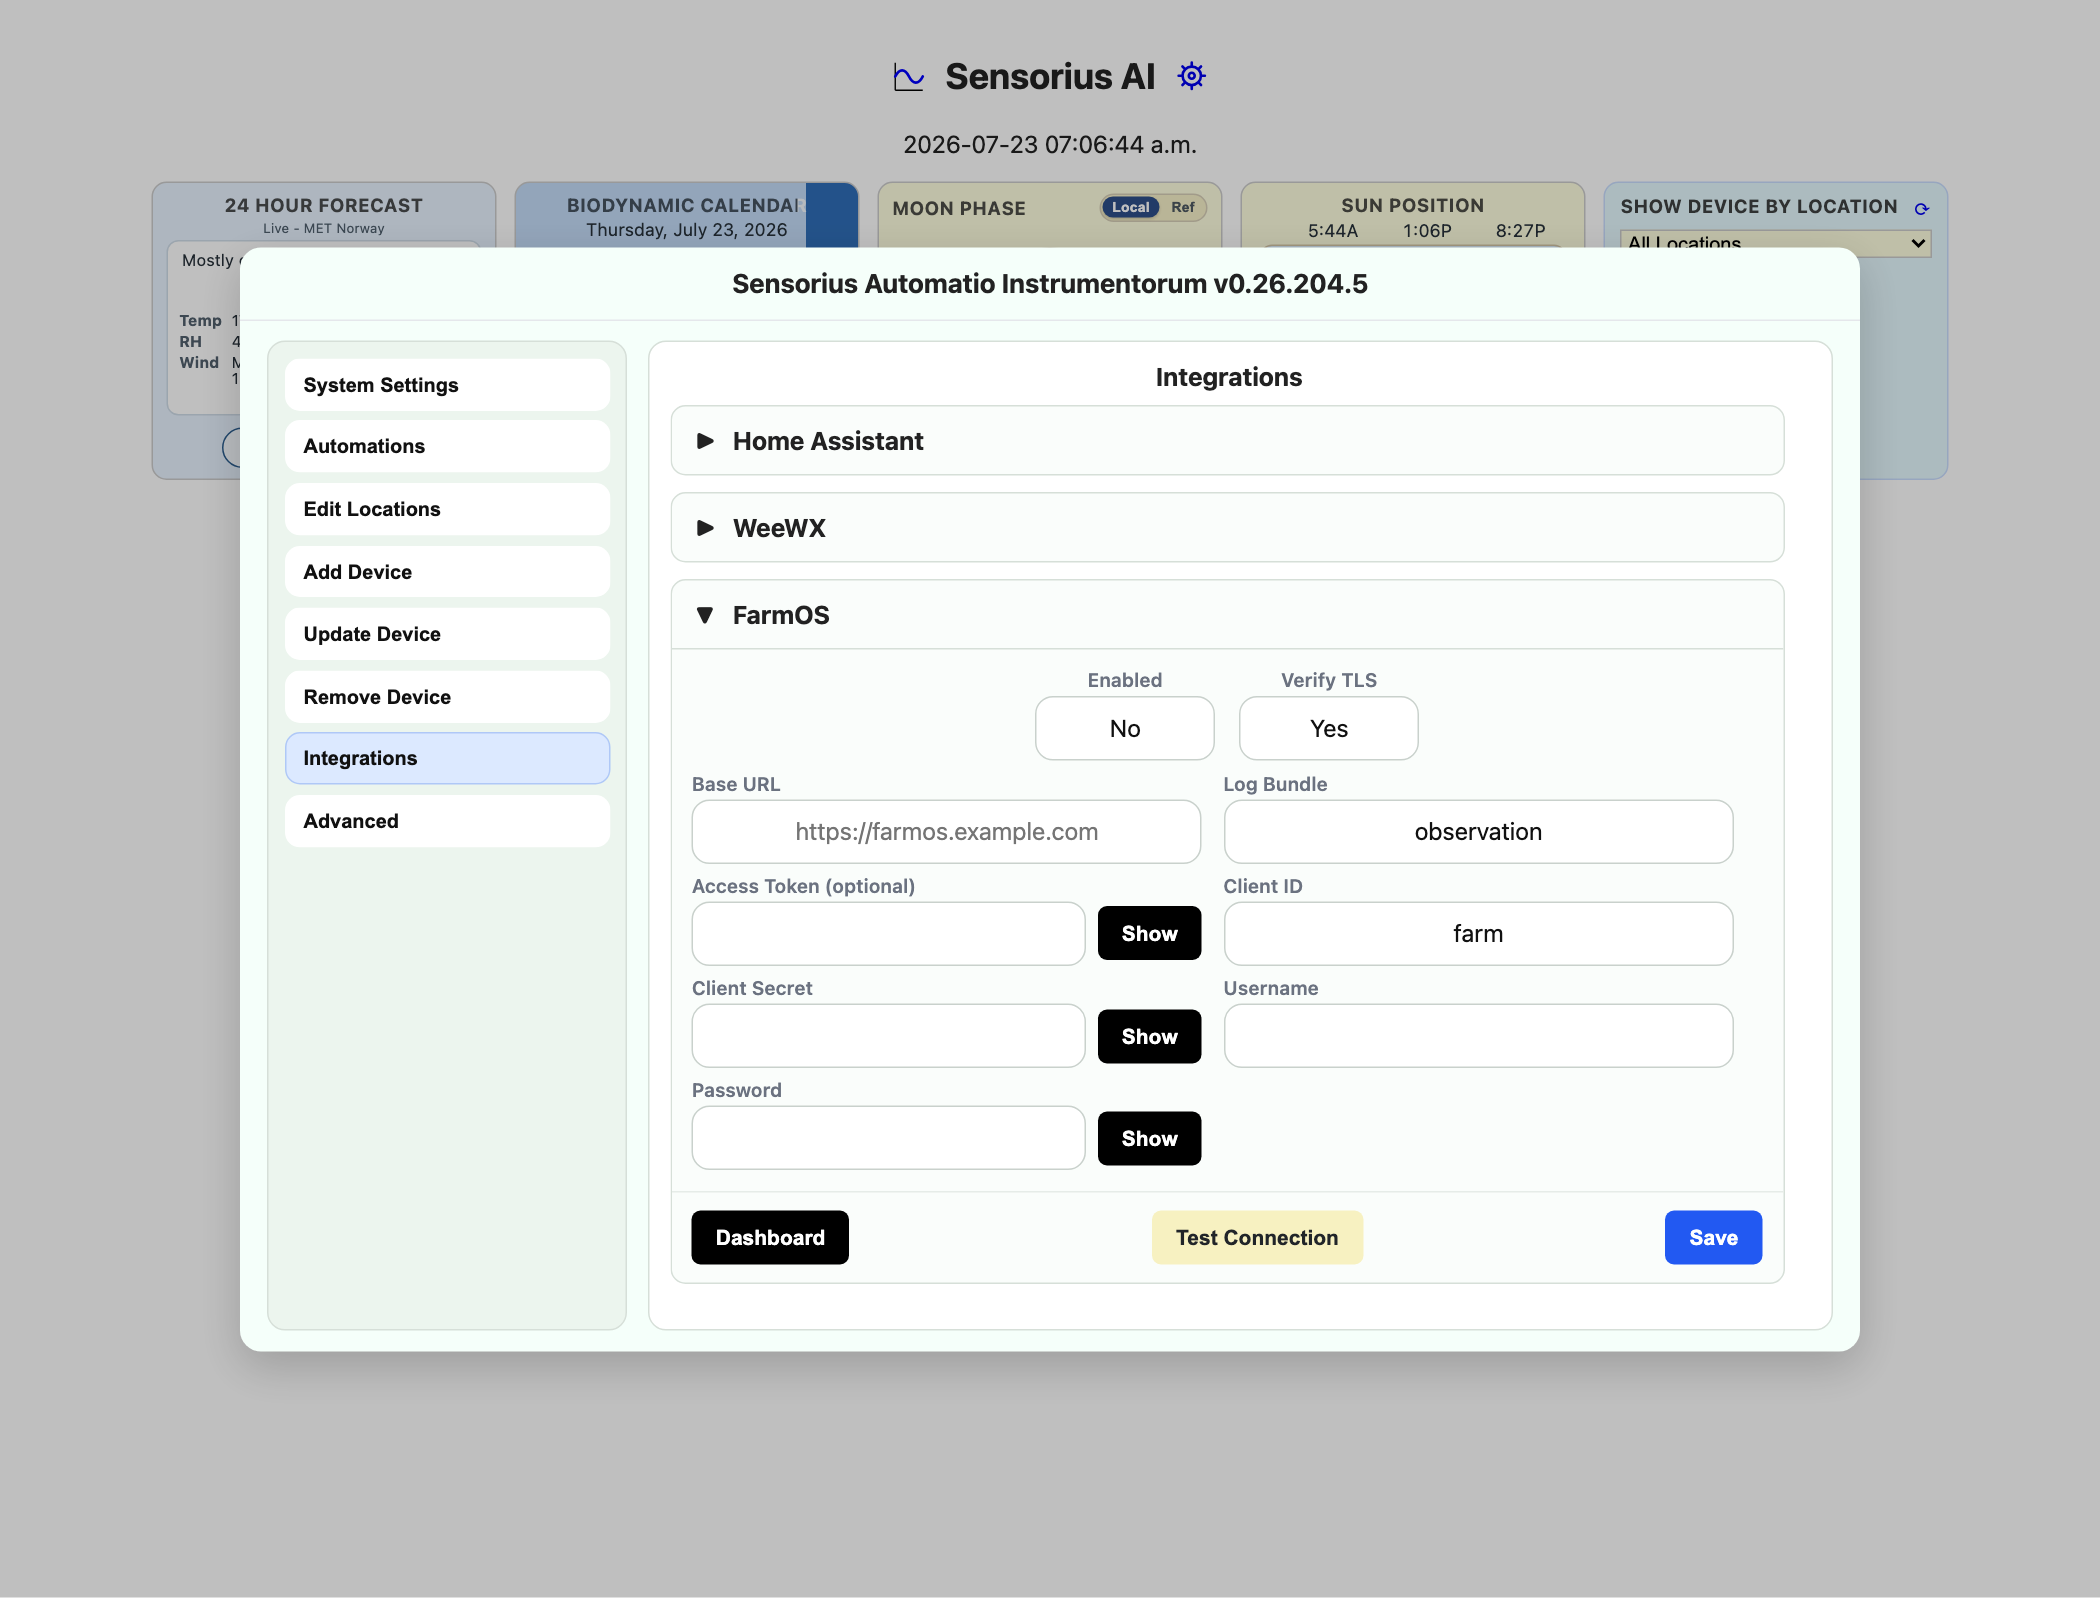
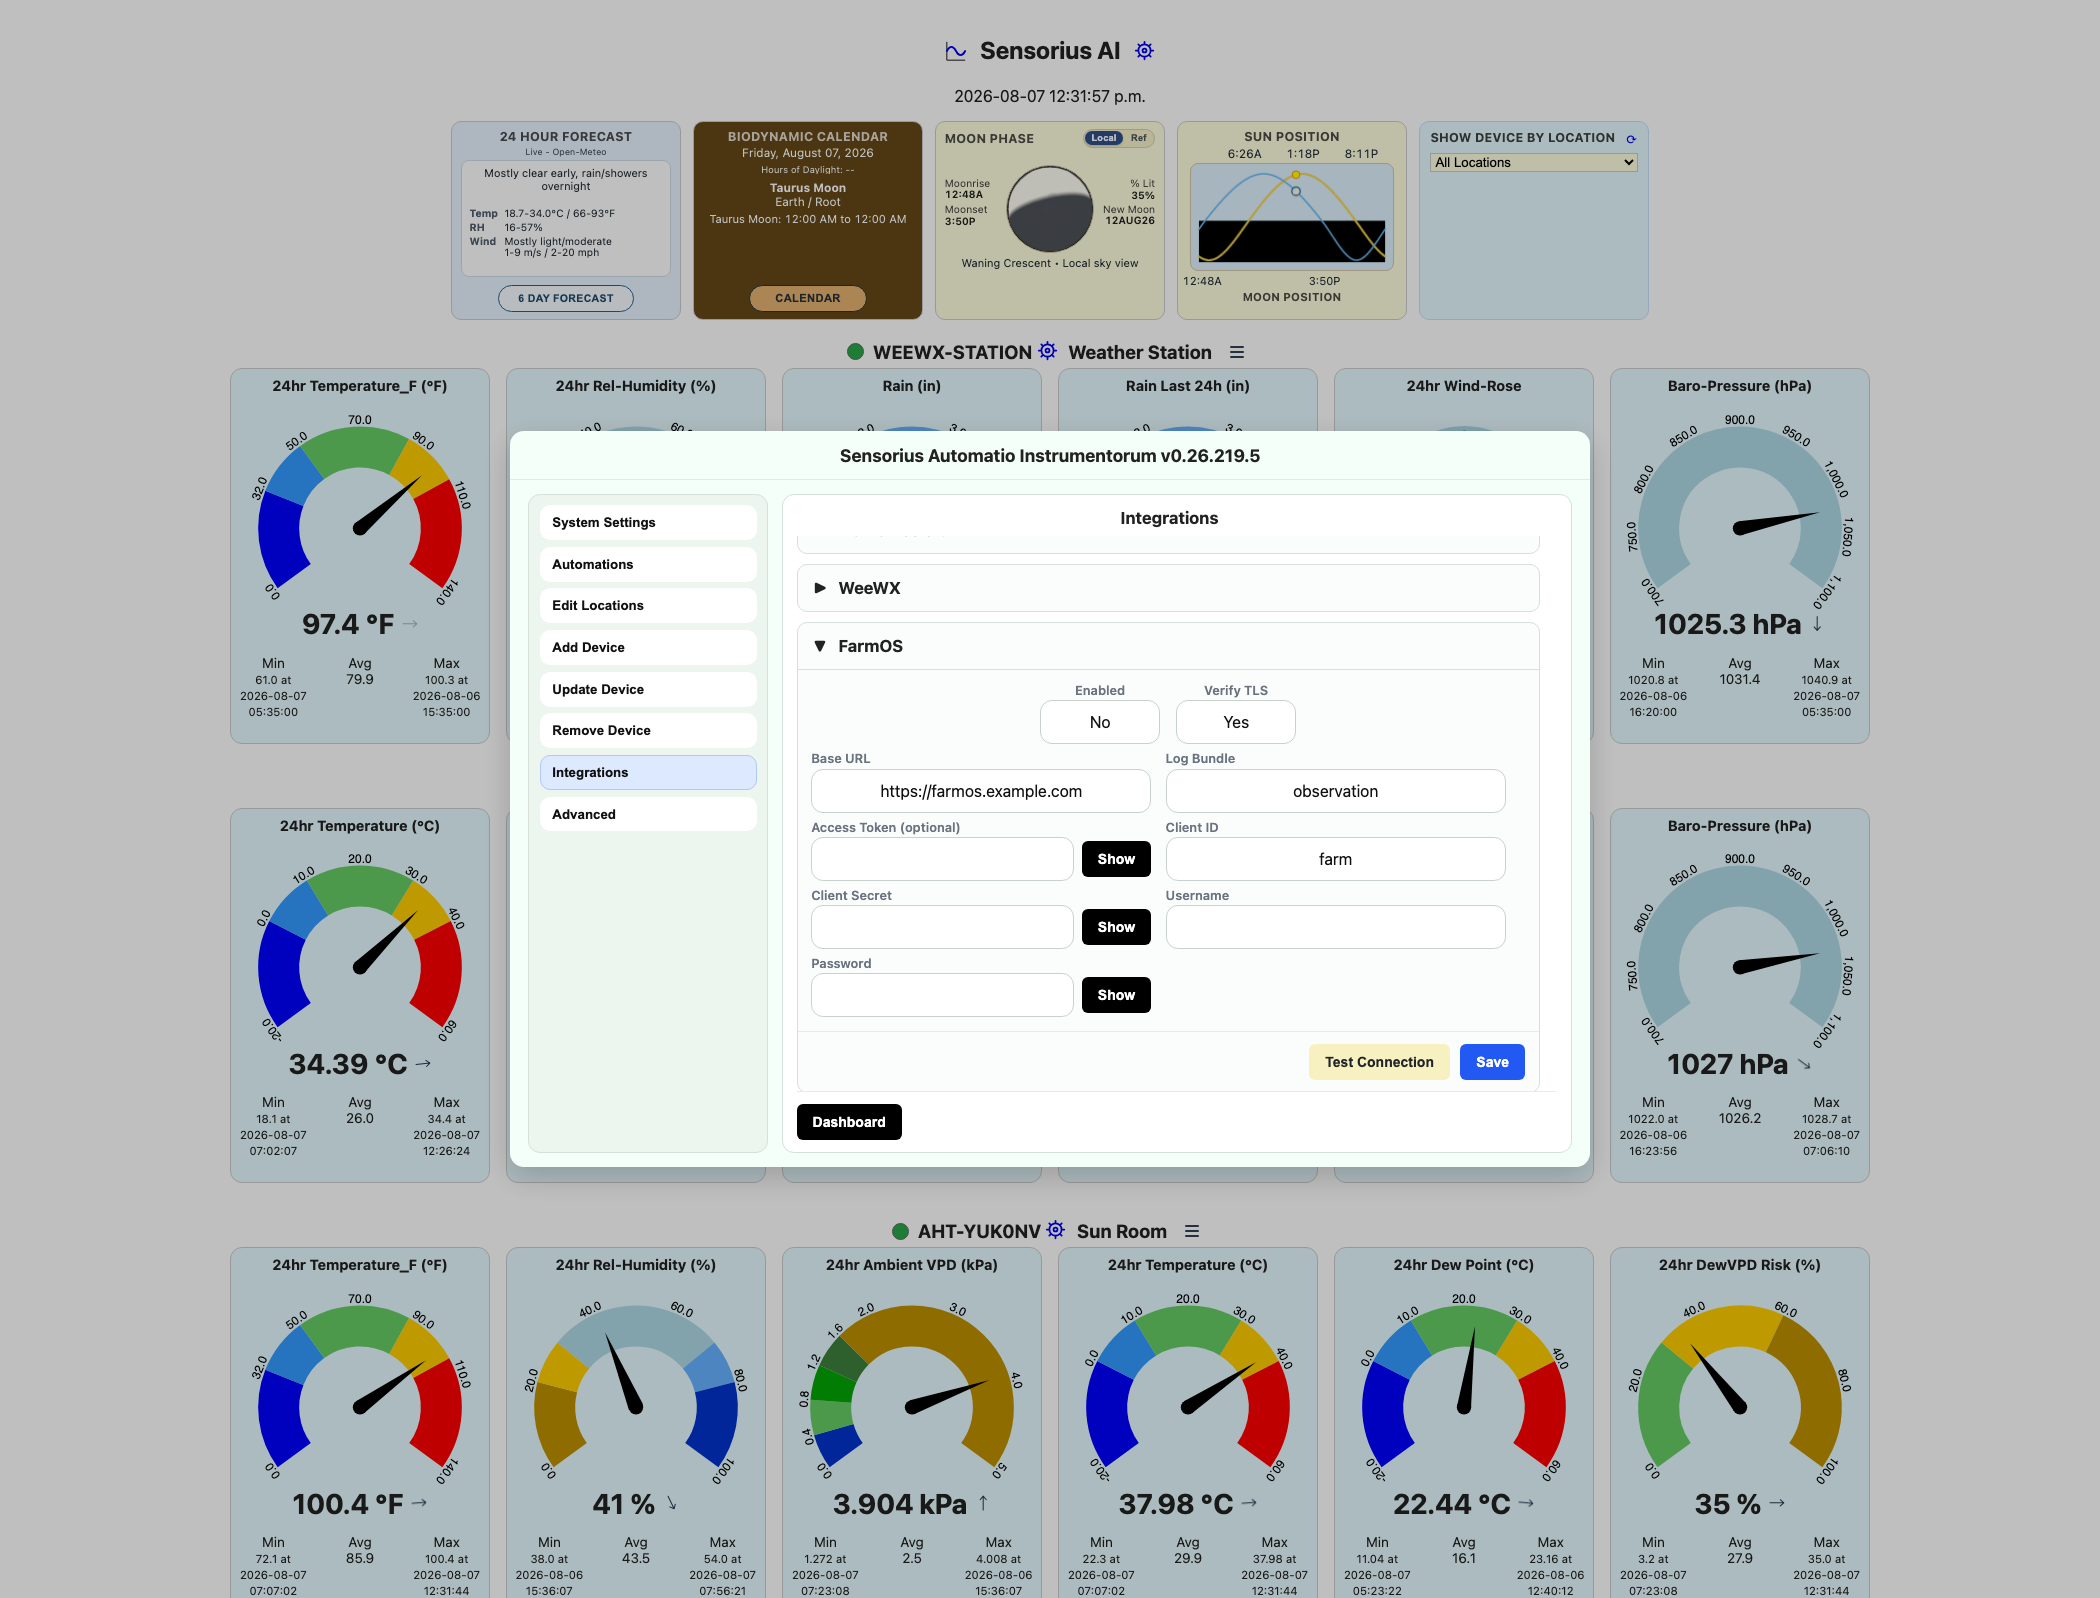
user guide update for Caelus integration

diff --git a/docs/user_guide.md b/docs/user_guide.md
@@ -189,13 +189,6 @@ maintenance tools.
 - **Dashboard**: returns to the dashboard.
 - **Save**: writes system settings normally; email connection values are written to the protected project-root `.env`.
 
-The **Integrations > Weather Forecast** section controls the forecast provider,
-the full-screen scene theme, and the Sensorius sensor used for Current
-Readings. Provider options are **MET Norway**, **US · National Weather
-Service**, **Open-Meteo**, and **Disabled**. Current Readings can use any live
-sensor in the sensor directory and shows that sensor's configured Display
-Metrics in their saved order.
-
 ![Notification email settings](<../assets/screenshots/system-settings-notifications.png>)
 
 Enable **Email Notifications** and save the SMTP settings before creating a
@@ -458,10 +451,30 @@ Before removing a device, update any automations, Home Assistant dashboards, far
 
 ### Integrations Pane
 
-System Settings presents Home Assistant, WeeWX, and FarmOS under one
-**Integrations** menu item. Each integration is an independently expandable
-block. Scroll the right pane vertically when the expanded blocks exceed the
-available height.
+System Settings presents Weather Forecast, Home Assistant, WeeWX, and FarmOS
+under one **Integrations** menu item. Each integration is an independently
+expandable block. Scroll the right pane vertically when the expanded blocks
+exceed the available height.
+
+#### Weather Forecast
+
+![Weather Forecast integration pane showing the forecast source, Caelus theme, and WeeWX Current Readings sensor](<../assets/screenshots/system-integrations-weather-forecast.png>)
+
+Fields and selectors:
+
+- **Forecast Provider**: selects the forecast source used by the dashboard and
+  Caelus. Options are **MET Norway**, **US · National Weather Service**,
+  **Open-Meteo**, and **Disabled**.
+- **Theme**: selects the Caelus full-screen scene. Options are **Mountain
+  Garden**, **Ocean Island**, **Forest River**, and **Desert Bloom**.
+- **Current Readings Sensor**: selects any live sensor in the sensor directory.
+  Caelus displays that sensor's configured Display Metrics in their saved
+  order. A WeeWX station can therefore supply outdoor temperature, humidity,
+  rain, wind direction, and barometric pressure.
+- **Save**: writes `[WeatherForecast]` provider, theme, and sensor selection.
+
+Forecast placement, astronomy, sunrise, and sunset continue to use the
+latitude, longitude, and timezone under **System Settings > Astral**.
 
 #### Home Assistant
 
@@ -732,12 +745,14 @@ The graph definition modal has these panes and fields:
 
 Use switch overlays to answer practical questions: whether a fan cooled the greenhouse, whether irrigation raised soil moisture, or whether lights changed VPD.
 
-## Weather Forecast
+## Caelus Weather Forecast
 
-Select **6 Day Forecast** on the dashboard forecast card to open the native
-full-screen weather display at
+Select **6 Day Forecast** on the dashboard forecast card to open the integrated
+Caelus full-screen weather display at
 `http://<sensorius-host>:8000/weather-forecast`. **Dashboard** in the top-left
 returns to the Sensorius dashboard.
+
+![Caelus weather forecast using the WeeWX weather station on sensorius-hub-3](<../assets/screenshots/weather-forecast-caelus-overview.png>)
 
 The weather display uses the existing Sensorius Astral latitude, longitude,
 and timezone. It includes the current Moon and phase cycle, sunrise/sunset and
@@ -751,6 +766,14 @@ in their saved order, including their standard Sensorius units. This allows a
 weather station, a Nodus environmental sensor, or a WeeWX station with fewer
 metrics to use the same full-screen view without requiring weather-only metric
 names.
+
+The hourly strip summarizes the next 24 hours in three-hour windows. Each
+window derives its icon from its own cloud and precipitation data and totals
+any predicted precipitation within that window. Select **6-day details** under
+**Looking Ahead** to open the detailed outlook with daily conditions,
+temperature, relative humidity, wind, and precipitation.
+
+![Caelus detailed six-day weather outlook](<../assets/screenshots/weather-forecast-caelus-six-day.png>)
 
 ## BD Calendar
 
